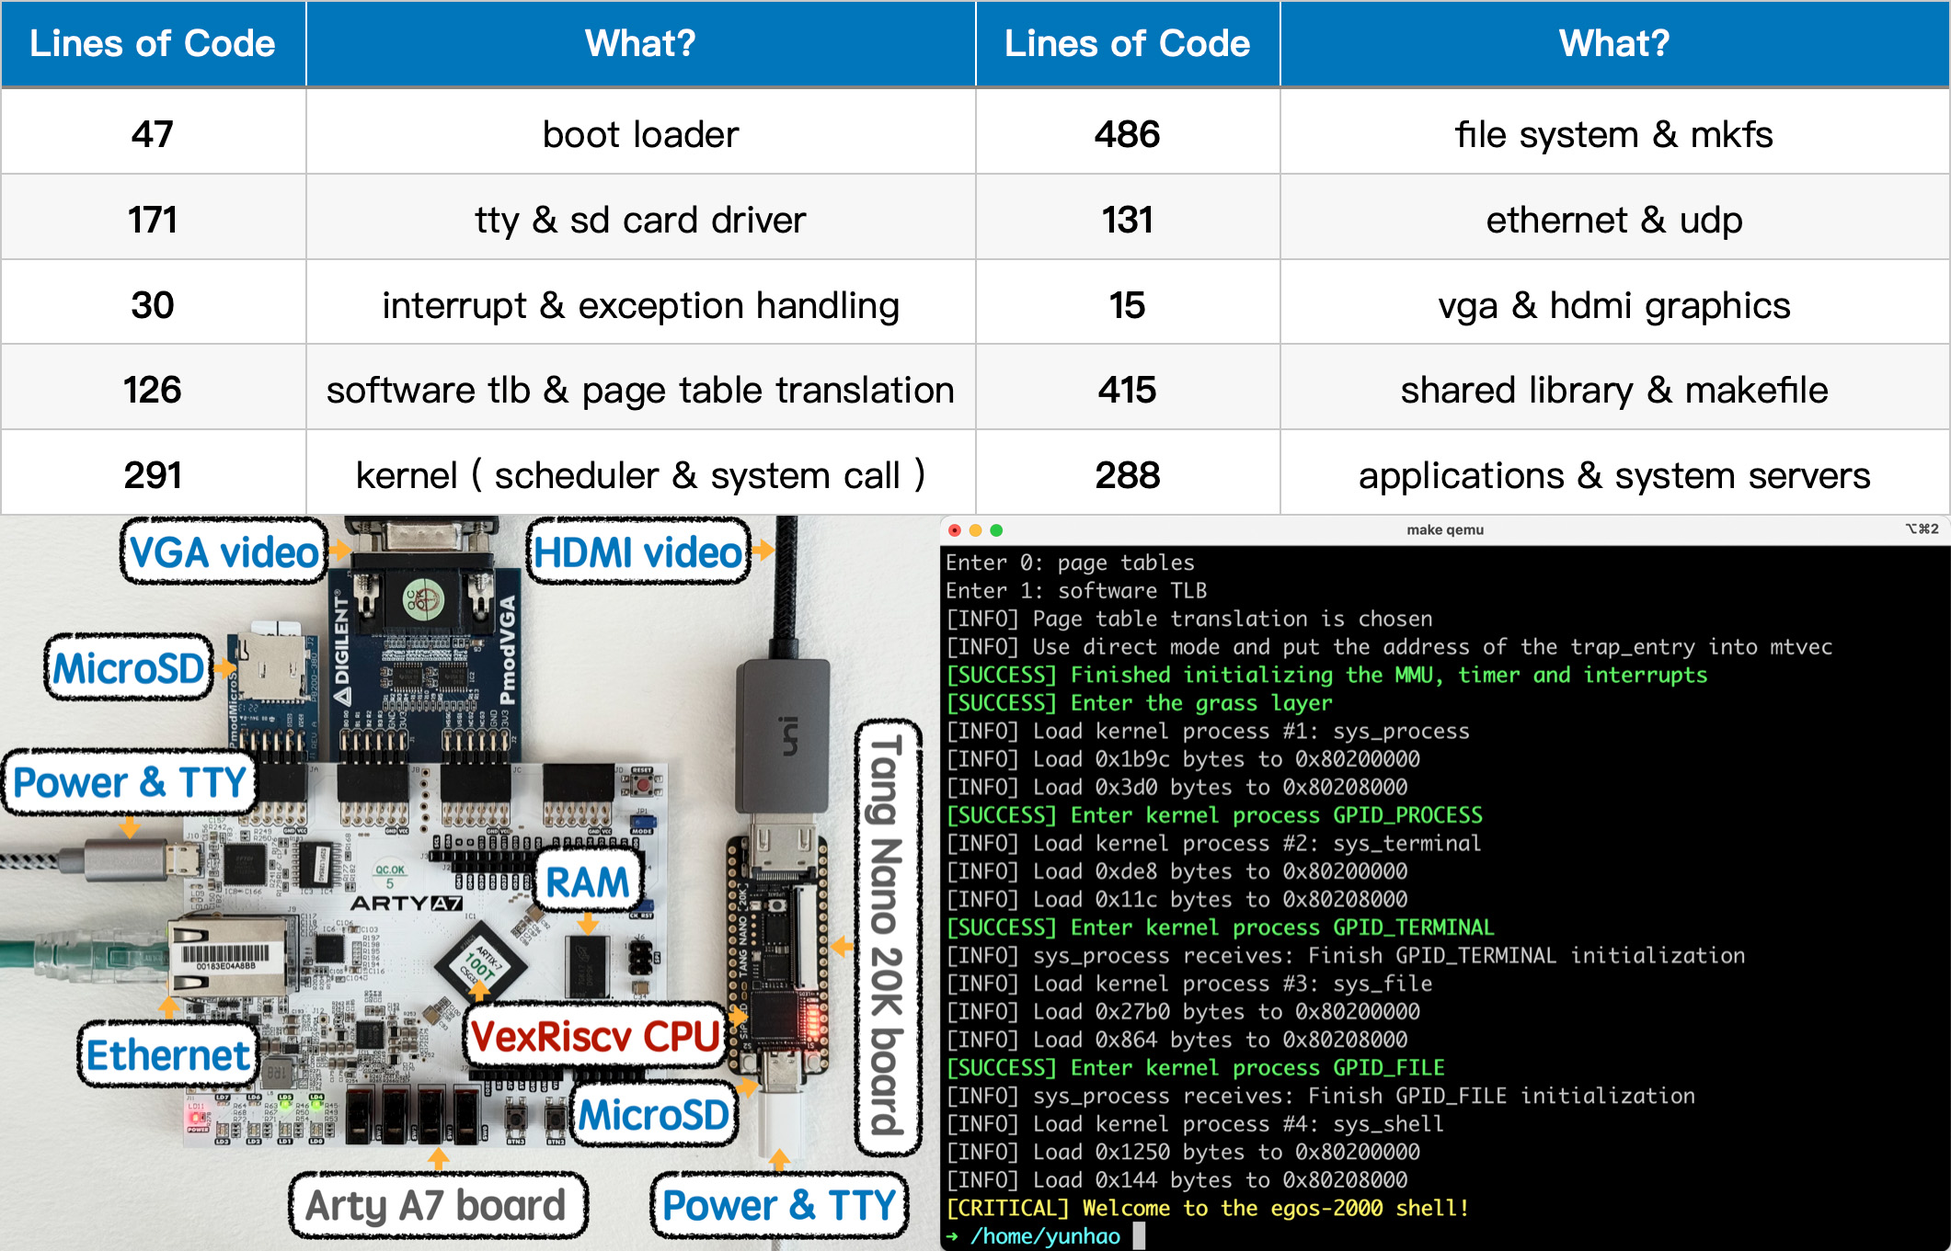
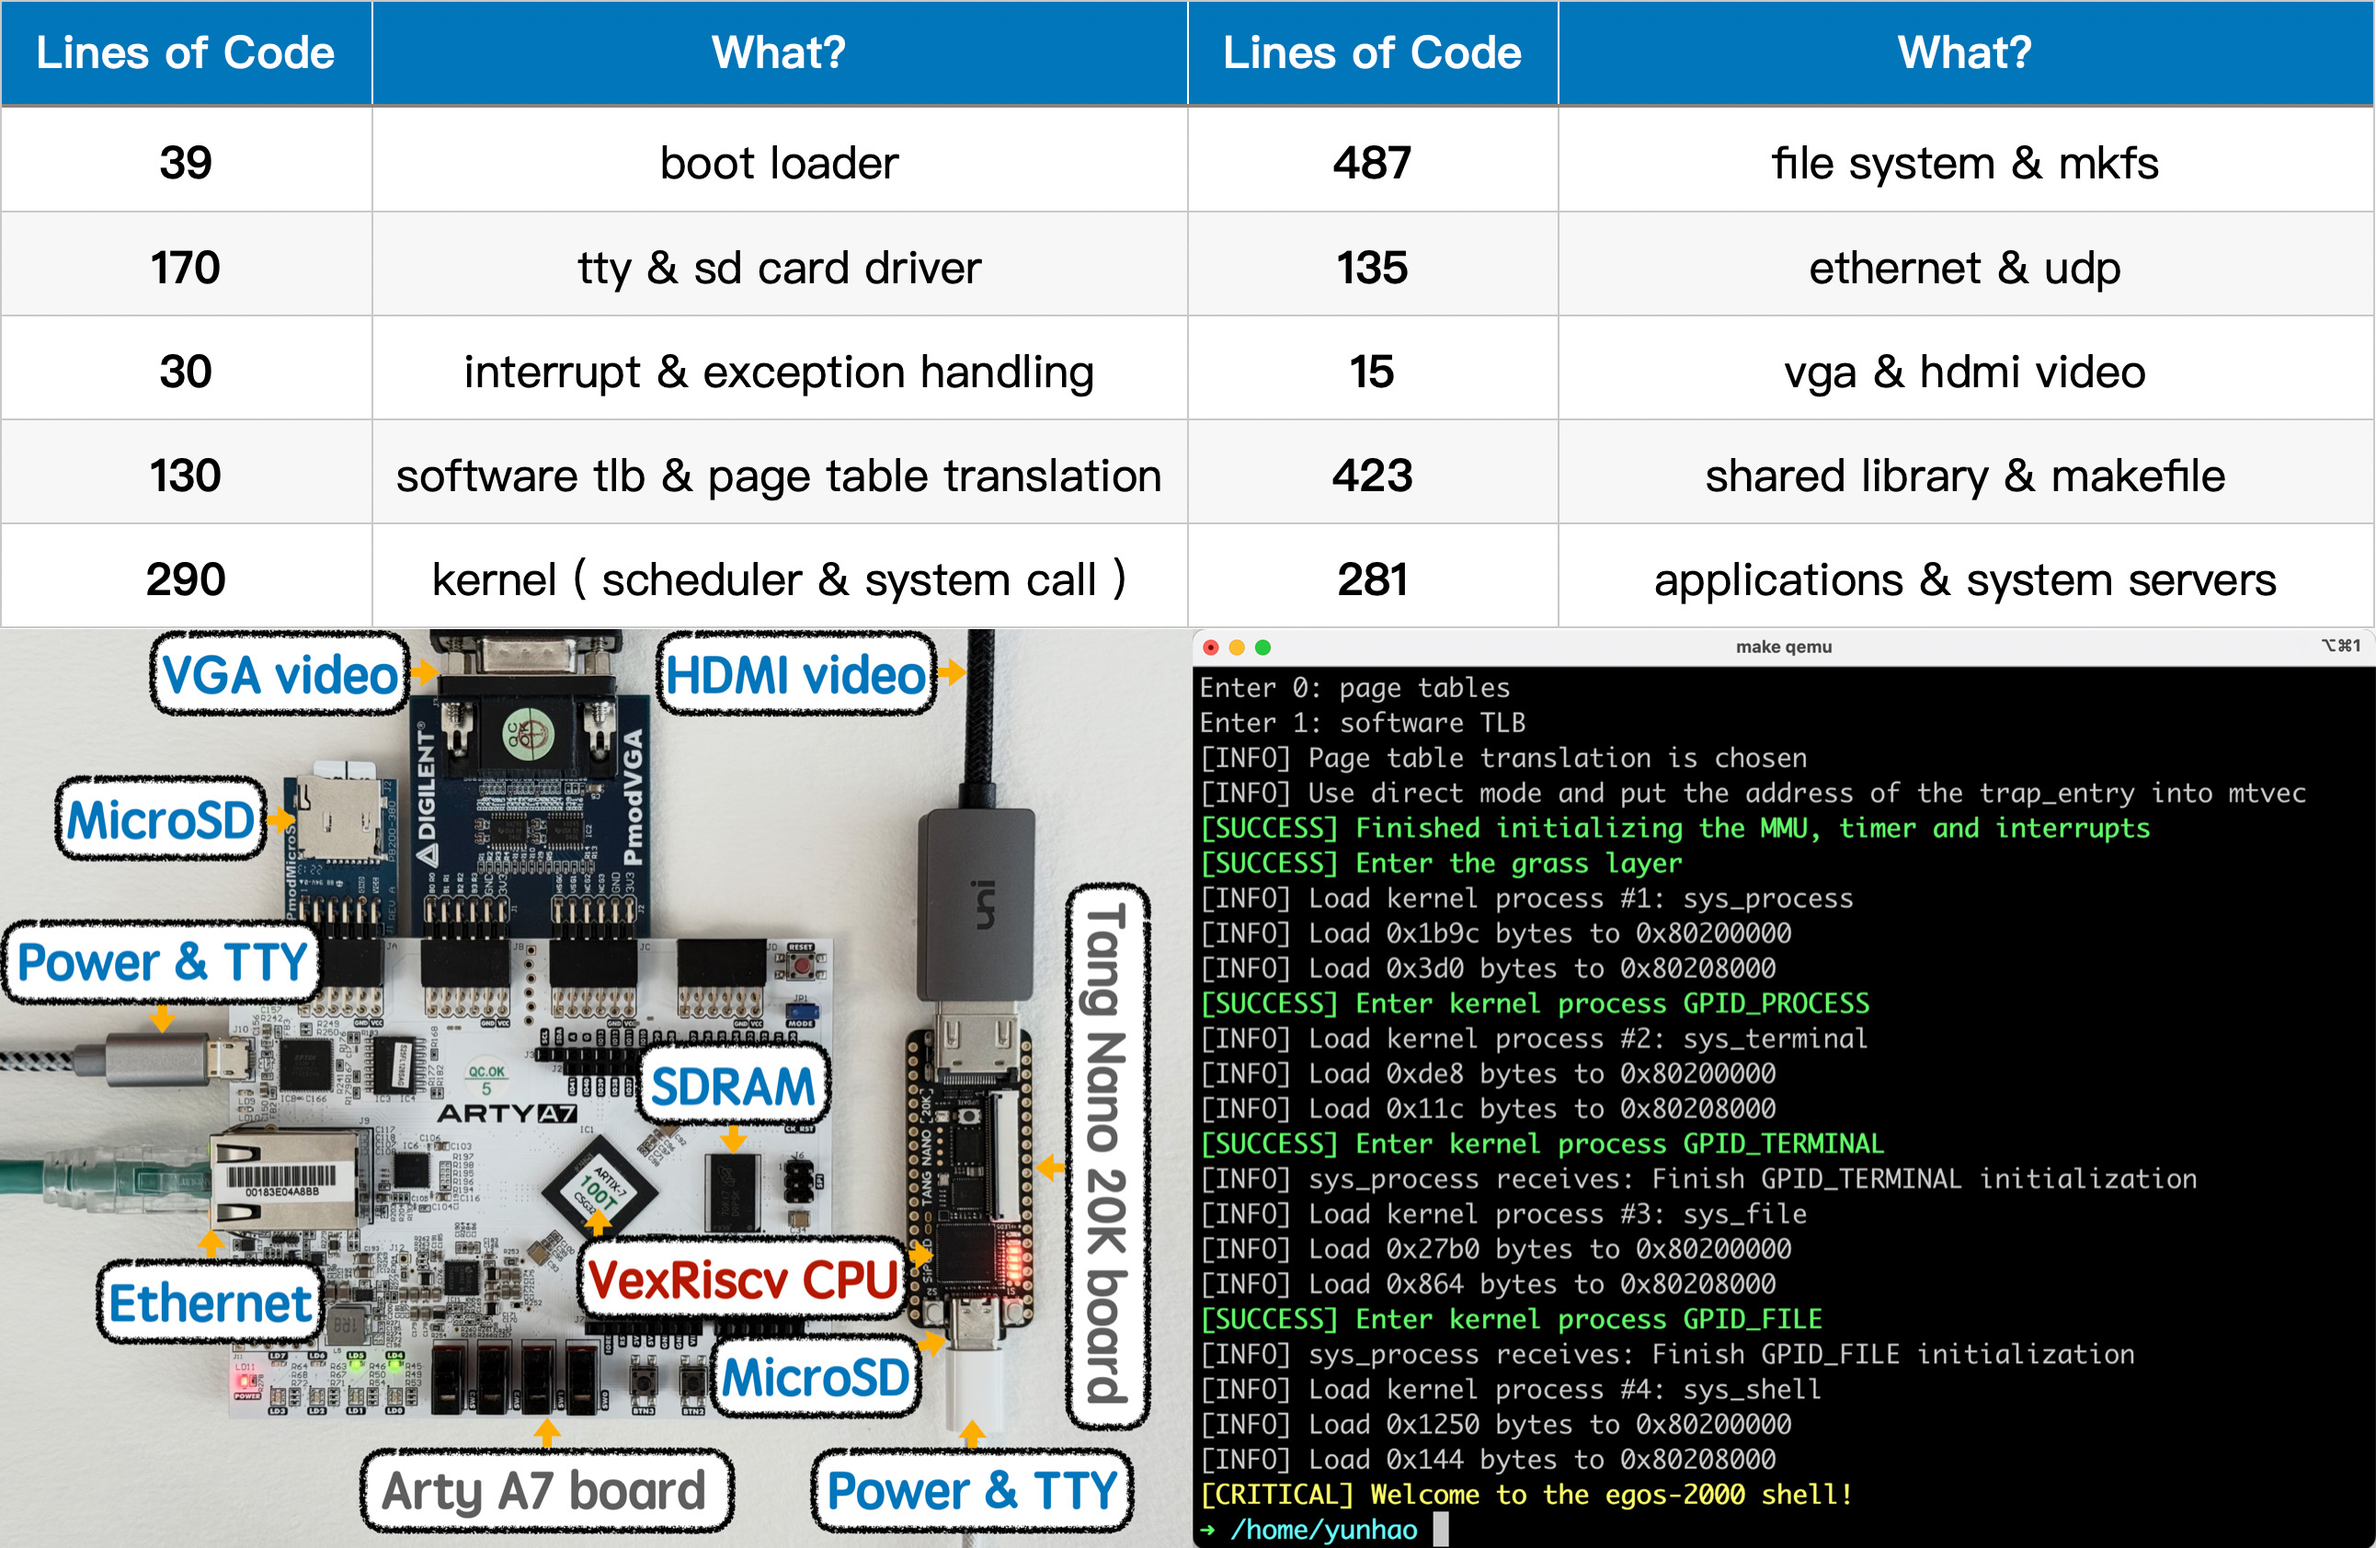
Add driver code for Intel Gigabit Ethernet

diff --git a/apps/user/udp_demo.c b/apps/user/udp_demo.c
@@ -10,19 +10,18 @@
  */
 
 #include "app.h"
-#include <string.h>
 
 #define HELLO_MSG "Hello from egos-2000!\n\r"
 
 /* Define the Mac addresses, IP addresses and UDP ports. */
-#define LOCAL_MAC {0x10, 0xe2, 0xd5, 0x00, 0x00, 0x00}
-#define DEST_MAC  {0x98, 0x48, 0x27, 0x51, 0x53, 0x1e}
-
+#define LOCAL_MAC           {0x10, 0xe2, 0xd5, 0x00, 0x00, 0x00}
+#define DEST_MAC            {0x98, 0x48, 0x27, 0x51, 0x53, 0x1e}
 #define IPTOINT(a, b, c, d) ((a << 24) | (b << 16) | (c << 8) | d)
-static uint local_ip       = IPTOINT(192, 168, 1, 50);
-static uint local_udp_port = 8001;
-static uint dest_ip        = IPTOINT(192, 168, 0, 212);
-static uint dest_udp_port  = 8002;
+
+uint local_ip       = IPTOINT(192, 168, 1, 50);
+uint local_udp_port = 8001;
+uint dest_ip        = IPTOINT(192, 168, 0, 212);
+uint dest_udp_port  = 8002;
 
 /* Define the data structures for an Ethernet frame. */
 struct ethernet_header {
@@ -66,9 +65,35 @@ struct checksum_fields {
     ushort length;
 } __attribute__((packed));
 
-/* Declare two helper functions. */
-static uint crc32(const uchar* message, uint len);
-static ushort checksum(uint r, char* ptr, uint length, int complete);
+/* Declare two helper functions for checksum. */
+static uint crc32(const uchar* message, uint len) {
+    uint byte, mask, crc = 0xFFFFFFFF;
+    for (int i = 0; i < len; i++) {
+        byte = message[i];
+        crc  = crc ^ byte;
+        for (int j = 7; j >= 0; j--) {
+            mask = -(crc & 1);
+            crc  = (crc >> 1) ^ (0xEDB88320 & mask);
+        }
+    }
+    return ~crc;
+}
+
+static ushort checksum(uint r, char* ptr, uint length, int complete) {
+    length >>= 1;
+
+    for (int i = 0; i < length; i++)
+        r += ((uint)(ptr[2 * i]) << 8) | (uint)(ptr[2 * i + 1]);
+
+    /* Add overflows */
+    while (r >> 16) r = (r & 0xffff) + (r >> 16);
+
+    if (complete) {
+        r = (~r) & 0xffff;
+        if (r == 0) r = 0xffff;
+    }
+    return r;
+}
 
 int main() {
     /* Initialize an Ethernet frame. */
@@ -97,6 +122,8 @@ int main() {
         }
     };
     /* clang-format on */
+
+    /* Setup payload. */
     if (sizeof(HELLO_MSG) & 1) FATAL("Please send a message with even length");
     memcpy(eth_frame.payload, HELLO_MSG, sizeof(HELLO_MSG));
 
@@ -116,69 +143,46 @@ int main() {
                  sizeof(struct udp_header) + sizeof(HELLO_MSG), 1));
 
     /* Send out the Ethernet frame. */
-    if (earth->platform == QEMU) {
-        CRITICAL("Networking on QEMU is left to students as an exercise");
-        /* Student's code goes here (Ethernet & TCP/IP). */
-
-        /* Understand the Gigabit Ethernet Controller (GEM) on QEMU
-         * and send the UDP network packet through the emulated GEM. */
-
-        /* Student's code ends here. */
-    } else {
+    if (earth->platform == HARDWARE) {
+        /* LiteX's liteeth Ethernet Controller. */
         char* txbuffer = (void*)(NIC_TX_BUFFER);
-        memcpy(txbuffer, &eth_frame, sizeof(struct ethernet_frame));
-
-        /* CRC is another checksum for the ETHMAC device on the Arty board. */
-        uint crc, txlen = sizeof(struct ethernet_frame);
-        crc                 = crc32(&txbuffer[8], txlen - 8);
-        txbuffer[txlen]     = (crc & 0xff);
-        txbuffer[txlen + 1] = (crc & 0xff00) >> 8;
-        txbuffer[txlen + 2] = (crc & 0xff0000) >> 16;
-        txbuffer[txlen + 3] = (crc & 0xff000000) >> 24;
-        txlen += 4;
-
-#define ETHMAC_CSR_START_WRITE    0x18
-#define ETHMAC_CSR_READY          0x1C
-#define ETHMAC_CSR_SLOT_WRITE     0x24
-#define ETHMAC_CSR_SLOT_LEN_WRITE 0x28
-
-        while (!(REGW(NIC_BASE, ETHMAC_CSR_READY)));
-        REGW(NIC_BASE, ETHMAC_CSR_SLOT_WRITE) = 0;
-        /* ETHMAC provides 2 TX slots. */
+        /* LiteX ETHMAC provides 2 TX slots. */
         /* TX slot#0 is at 0x90001000 (txbuffer). */
         /* TX slot#1 is at 0x90001800 (not used). */
-        REGW(NIC_BASE, ETHMAC_CSR_SLOT_LEN_WRITE) = txlen;
-        REGW(NIC_BASE, ETHMAC_CSR_START_WRITE)    = 1;
+        memcpy(txbuffer, &eth_frame, sizeof(struct ethernet_frame));
+
+        /* CRC32 is another checksum for the LiteX ETHMAC device. */
+        uint txlen                   = sizeof(struct ethernet_frame);
+        *((uint*)(txbuffer + txlen)) = crc32(&txbuffer[8], txlen - 8);
+
+        while (!(REGW(NIC_BASE, 0x1C)));
+        REGW(NIC_BASE, 0x24) = 0;
+        REGW(NIC_BASE, 0x28) = txlen + sizeof(uint) /* crc32 */;
+        REGW(NIC_BASE, 0x18) = 1;
+    } else {
+        /* Intel 82540EM Gigabit Ethernet Controller. */
+        REGW(NIC_PCI_ECAM, 0x4)  = 6;
+        REGW(NIC_PCI_ECAM, 0x10) = NIC_BASE;
+
+        static char txbuffer[sizeof(struct ethernet_frame)];
+        memcpy(txbuffer, &eth_frame, sizeof(struct ethernet_frame));
+
+        static __attribute__((aligned(16))) char txdesc[16];
+        REGW(txdesc, 0)  = (uint)txbuffer;       /* addr   */
+        REGB(txdesc, 11) = REGB(txdesc, 11) | 5; /* cmd    */
+        REGB(txdesc, 12) = REGB(txdesc, 12) | 5; /* status */
+
+        REGW(NIC_BASE, 0x3800) = (uint)&txdesc;
+        REGW(NIC_BASE, 0x3808) = 16;       /* tx descriptor length */
+        REGW(NIC_BASE, 0x3818) = 0;        /* tx descriptor tail */
+        REGW(NIC_BASE, 0x410)  = 0x60100A; /* tx inter-packet gap time */
+        REGW(NIC_BASE, 0x400) |= 0x4010A;  /* tx control */
+
+        while (!(REGB(txdesc, 12) & 1));
+        REGB(txdesc, 12)       = REGB(txdesc, 12) & ~1;
+        REGB(txdesc, 8)        = sizeof(struct ethernet_frame);
+        REGW(NIC_BASE, 0x3818) = 1;
     }
 
     return 0;
-}
-
-static uint crc32(const uchar* message, uint len) {
-    uint byte, mask, crc = 0xFFFFFFFF;
-    for (int i = 0; i < len; i++) {
-        byte = message[i];
-        crc  = crc ^ byte;
-        for (int j = 7; j >= 0; j--) {
-            mask = -(crc & 1);
-            crc  = (crc >> 1) ^ (0xEDB88320 & mask);
-        }
-    }
-    return ~crc;
-}
-
-static ushort checksum(uint r, char* ptr, uint length, int complete) {
-    length >>= 1;
-
-    for (int i = 0; i < length; i++)
-        r += ((uint)(ptr[2 * i]) << 8) | (uint)(ptr[2 * i + 1]);
-
-    /* Add overflows */
-    while (r >> 16) r = (r & 0xffff) + (r >> 16);
-
-    if (complete) {
-        r = (~r) & 0xffff;
-        if (r == 0) r = 0xffff;
-    }
-    return r;
 }

diff --git a/earth/cpu_mmu.c b/earth/cpu_mmu.c
@@ -106,7 +106,7 @@ void pagetable_identity_map(int pid) {
     for (uint i = RAM_START; i < RAM_END; i += PAGE_SIZE * 1024)
         setup_identity_region(pid, i, 1024, USER_RWX);
 
-    setup_identity_region(pid, NIC_BASE, 1, USER_RWX);
+    setup_identity_region(pid, NIC_BASE, 4, USER_RWX);
     setup_identity_region(pid, UART_BASE, 1, USER_RWX);
     setup_identity_region(pid, CLINT_BASE, 16, USER_RWX);
     setup_identity_region(pid, FLASH_ROM_BASE, 1024, USER_RWX);
@@ -114,6 +114,7 @@ void pagetable_identity_map(int pid) {
 
     if (earth->platform == QEMU) {
         setup_identity_region(pid, SDHCI_BASE, 1, USER_RWX);
+        setup_identity_region(pid, NIC_PCI_ECAM, 1, USER_RWX);
     } else {
         setup_identity_region(pid, SDSPI_BASE, 1, USER_RWX);
         setup_identity_region(pid, NIC_TX_BUFFER, 1, USER_RWX);

diff --git a/library/egos.h b/library/egos.h
@@ -59,6 +59,7 @@ extern struct grass* grass;
 #define SDHCI_PCI_ECAM   0x30008000 /* QEMU */
 #define SDHCI_BASE       0x40000000 /* QEMU */
 #define SDSPI_BASE       0xF0008800 /* Hardware */
+#define NIC_PCI_ECAM     0x30018000 /* QEMU */
 #define NIC_RX_BUFFER    0x90000000 /* Hardware */
 #define NIC_TX_BUFFER    0x90001000 /* Hardware */
 #define NIC_BASE         (earth->platform == QEMU ? 0x41000000UL : 0xF0002000UL)

diff --git a/apps/app.h b/apps/app.h
@@ -2,6 +2,7 @@
 
 #include "egos.h"
 #include "syscall.h"
+#include <string.h>
 
 struct grass* grass = (void*)GRASS_STRUCT_BASE;
 struct earth* earth = (void*)EARTH_STRUCT_BASE;

diff --git a/apps/system/sys_file.c b/apps/system/sys_file.c
@@ -8,7 +8,6 @@
 
 #include "app.h"
 #include "inode.h"
-#include <string.h>
 
 int getsize(inode_intf bs, uint ino) { return FILE_SYS_DISK_SIZE / BLOCK_SIZE; }
 

diff --git a/apps/system/sys_proc.c b/apps/system/sys_proc.c
@@ -9,7 +9,6 @@
 #include "app.h"
 #include "elf.h"
 #include "disk.h"
-#include <string.h>
 
 static int app_ino, app_pid;
 static void sys_spawn(uint base);

diff --git a/apps/user/crash2.c b/apps/user/crash2.c
@@ -9,7 +9,6 @@
 
 #include "app.h"
 #include "egos.h"
-#include <string.h>
 
 int main() {
     memset((void*)APPS_PAGES_BASE, 0, RAM_END - APPS_PAGES_BASE);

diff --git a/apps/system/sys_shell.c b/apps/system/sys_shell.c
@@ -6,7 +6,6 @@
  */
 
 #include "app.h"
-#include <string.h>
 
 int parse_request(char* buf, struct proc_request* req) {
     uint idx = 0, nargs = 0;

diff --git a/apps/system/sys_terminal.c b/apps/system/sys_terminal.c
@@ -7,7 +7,6 @@
  */
 
 #include "app.h"
-#include "string.h"
 
 int main() {
     SUCCESS("Enter kernel process GPID_TERMINAL");

diff --git a/apps/user/cat.c b/apps/user/cat.c
@@ -6,7 +6,6 @@
  */
 
 #include "app.h"
-#include <string.h>
 
 int main(int argc, char** argv) {
     if (argc != 2) {

diff --git a/apps/user/cd.c b/apps/user/cd.c
@@ -6,7 +6,6 @@
  */
 
 #include "app.h"
-#include <string.h>
 
 int main(int argc, char** argv) {
     if (argc == 1) {

diff --git a/apps/user/ls.c b/apps/user/ls.c
@@ -6,7 +6,6 @@
  */
 
 #include "app.h"
-#include <string.h>
 
 int main(int argc, char** argv) {
     if (argc > 1) {
